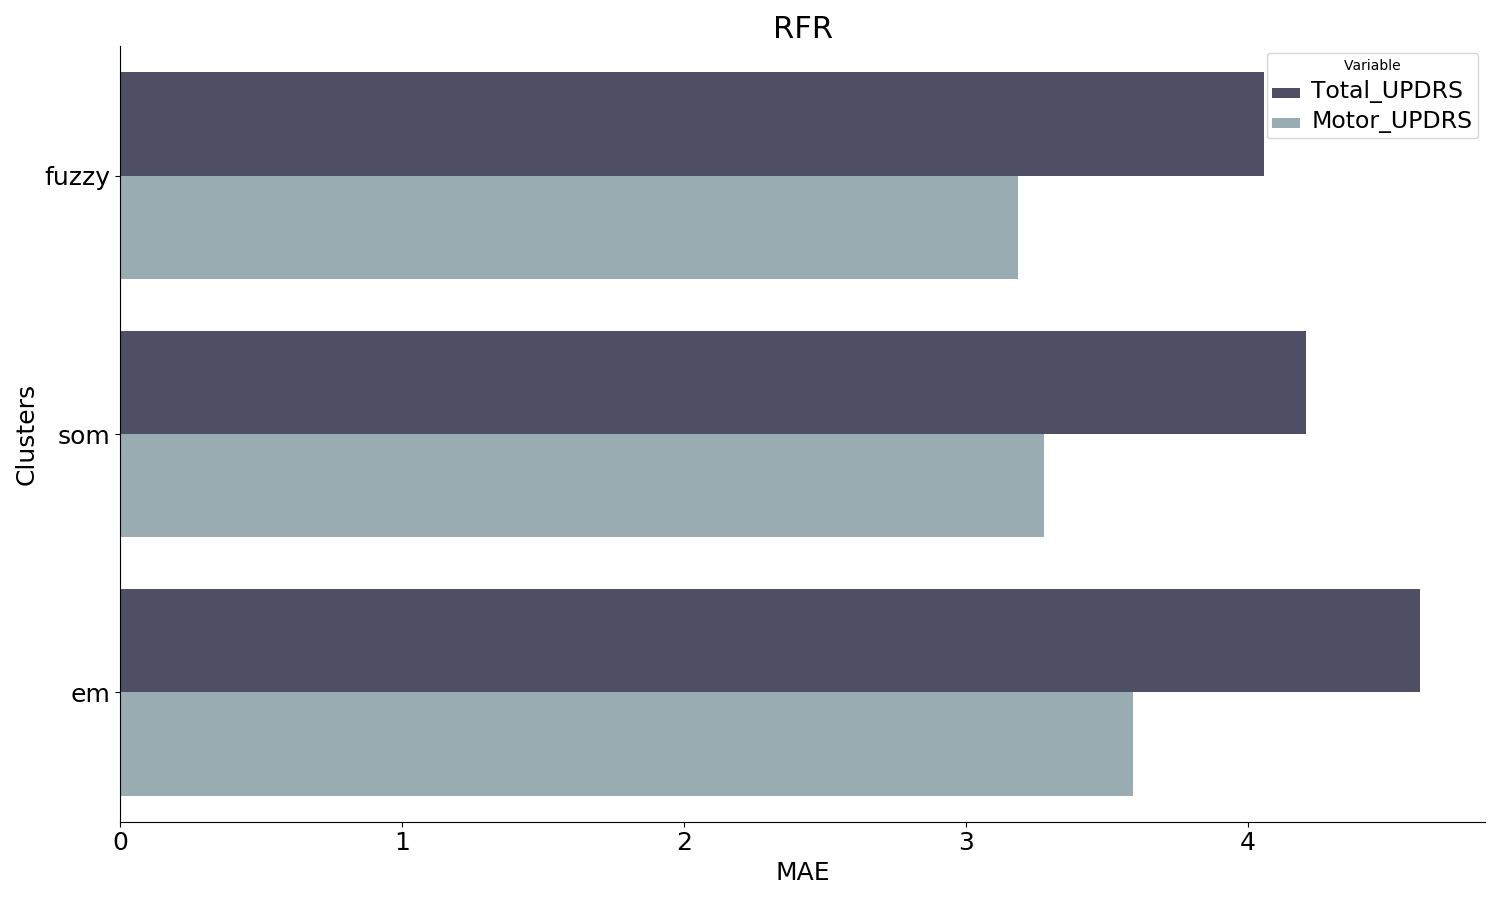
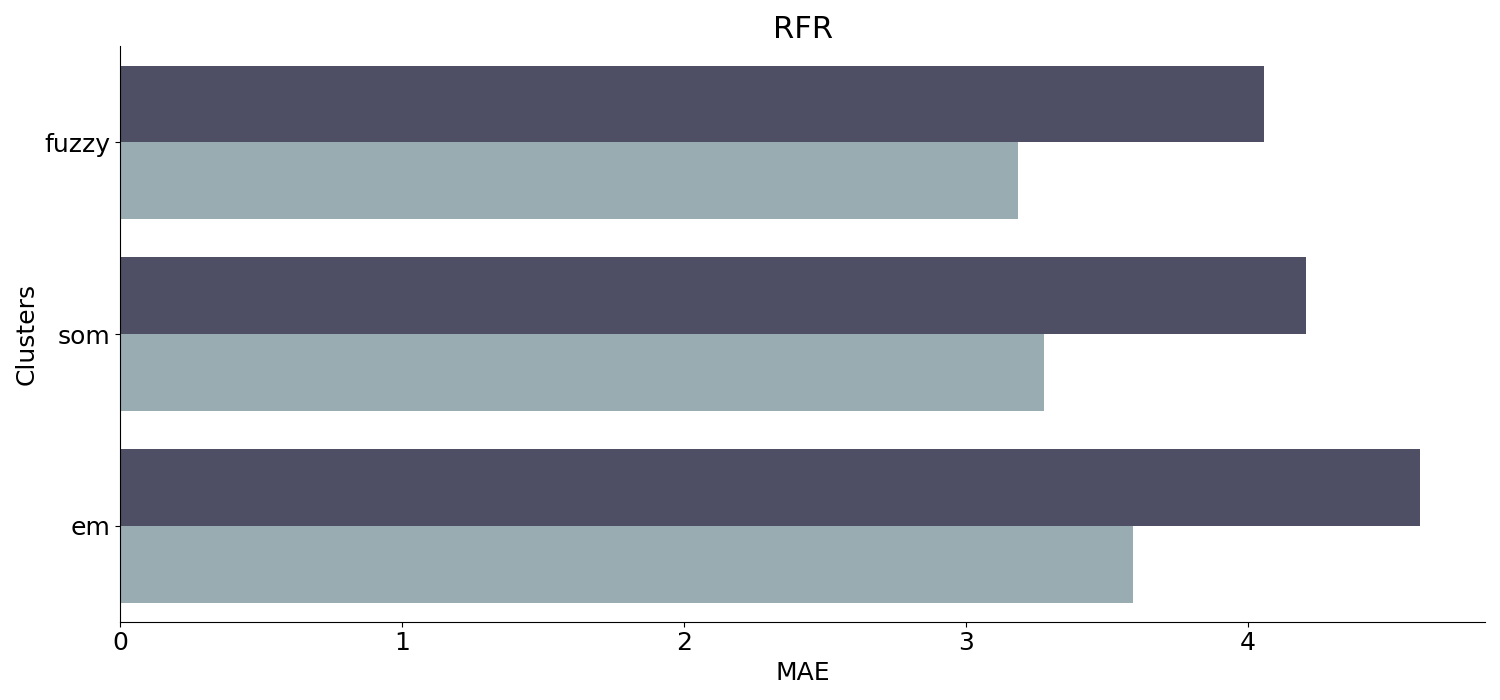
Plots cluster+comparison

diff --git a/utils/comparison_best_model_cluster.py b/utils/comparison_best_model_cluster.py
@@ -1,0 +1,50 @@
+import matplotlib.pyplot as plt
+import pandas
+import seaborn as sb
+# Anfis+EM
+#7.903273018514029
+#6.12038805854495
+
+#GBR+fuzzy
+#4.110263370760881
+#3.266110069906717
+
+# MLP+som
+#2.8862764088386768
+#2.2763016439621944
+
+# RFR+fuzzy
+#4.058391171758299
+#3.184542339860424
+
+#SVR+som
+#5.10827984495852
+#3.9510130319342722
+sb.set(style="whitegrid")
+def makePlot(total, motor):
+    df = pandas.DataFrame(
+        {'Models': ['EM+Anfis', 'fuzzy+GBR', 'som+MLP', 'fuzzy+RFR', 'som+SVR'],
+         'Total_UPDRS': total,
+         'Motor_UPDRS': motor})
+    fig, ax1 = plt.subplots(figsize=(15, 11))
+    tidy = df.melt(id_vars='Models').rename(columns=str.title)
+
+
+    sn = sb.barplot(x='Models', y='Value', hue='Variable', data=tidy, ax=ax1, palette='bone')
+
+    sn.axes.set_title("Clustering+Model", fontsize=22)
+    sn.set_ylabel("MAE", fontsize=18)
+    sn.set_xlabel("Models", fontsize=18)
+    sb.despine(fig)
+
+    plt.setp(ax1.get_legend().get_texts(), fontsize='17')
+    plt.xticks(fontsize=18)
+    plt.yticks(fontsize=18)
+    plt.tight_layout()
+    plt.savefig("../media/model_cluster_comparison.png")
+    plt.show()
+
+    return
+total = [7.903273018514029, 4.110263370760881, 2.8862764088386768, 4.058391171758299, 5.10827984495852]
+motor = [6.12038805854495, 3.266110069906717, 2.2763016439621944, 3.18454233986042,3.9510130319342722 ]
+makePlot(total, motor)

diff --git a/utils/experiment_three_plot.py b/utils/experiment_three_plot.py
@@ -39,7 +39,7 @@ def makePlot(total, motor, model):
     df = pandas.DataFrame(
         {'Clusters': ['fuzzy', 'som', 'em'], 'Total_UPDRS': total,
          'Motor_UPDRS': motor})
-    fig, ax1 = plt.subplots(figsize=(15, 9))
+    fig, ax1 = plt.subplots(figsize=(15, 7))
     tidy = df.melt(id_vars='Clusters').rename(columns=str.title)
 
     sn = sb.barplot(x='Value', y='Clusters', hue='Variable', data=tidy, ax=ax1, palette='bone')
@@ -49,9 +49,8 @@ def makePlot(total, motor, model):
     sn.set_ylabel("Clusters", fontsize=18)
     sb.despine(fig)
 
-
-
-    plt.setp(ax1.get_legend().get_texts(), fontsize='17')
+   #plt.setp(ax1.get_legend().get_texts(), fontsize='17')
+    ax1.get_legend().remove()
     plt.xticks(fontsize=18)
     plt.yticks(fontsize=18)
     plt.tight_layout()
